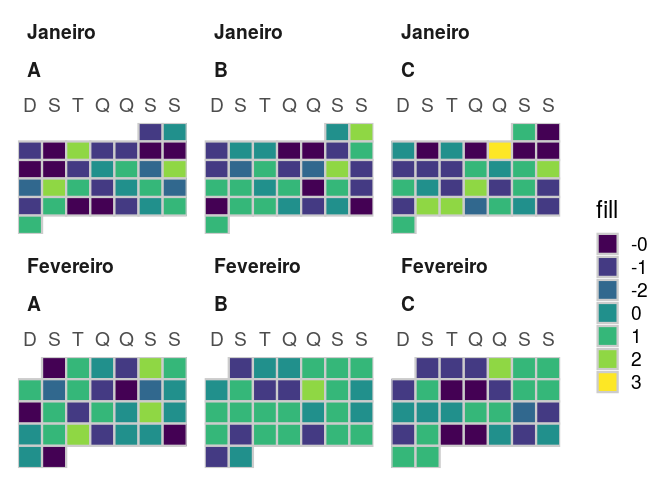
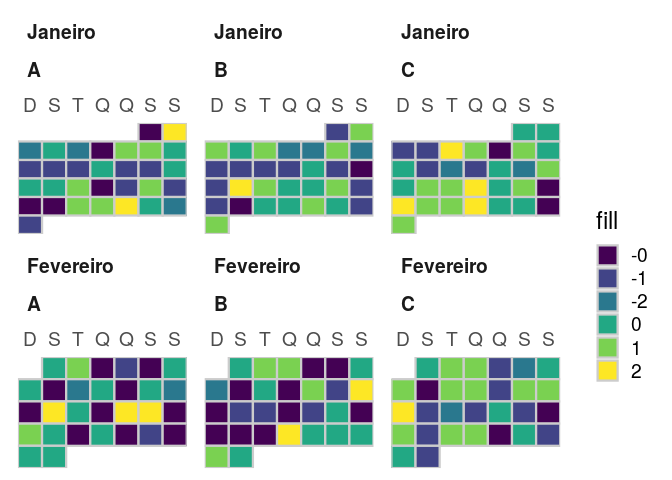
update README

Changed region(s): [[0.0312, 0.7188, 0.8438, 1.0], [0.0312, 0.25, 0.8438, 0.5], [0.875, 0.4062, 0.9688, 0.8438]]

diff --git a/README.md b/README.md
@@ -100,12 +100,12 @@ head(df)
 #> # A tibble: 6 x 9
 #>   grp   date       fill      x month    year monlabel     y wday 
 #>   <chr> <date>     <chr> <dbl> <ord>   <dbl> <fct>    <dbl> <ord>
-#> 1 A     2016-01-01 -1        5 janeiro  2016 Janeiro     10 Sex  
-#> 2 A     2016-01-02 0         6 janeiro  2016 Janeiro     10 Sáb  
-#> 3 A     2016-01-03 -1        0 janeiro  2016 Janeiro      9 Dom  
-#> 4 A     2016-01-04 -0        1 janeiro  2016 Janeiro      9 Seg  
-#> 5 A     2016-01-05 2         2 janeiro  2016 Janeiro      9 Ter  
-#> 6 A     2016-01-06 -1        3 janeiro  2016 Janeiro      9 Qua
+#> 1 A     2016-01-01 -0        5 janeiro  2016 Janeiro     10 Sex  
+#> 2 A     2016-01-02 2         6 janeiro  2016 Janeiro     10 Sáb  
+#> 3 A     2016-01-03 -2        0 janeiro  2016 Janeiro      9 Dom  
+#> 4 A     2016-01-04 0         1 janeiro  2016 Janeiro      9 Seg  
+#> 5 A     2016-01-05 -2        2 janeiro  2016 Janeiro      9 Ter  
+#> 6 A     2016-01-06 -0        3 janeiro  2016 Janeiro      9 Qua
 
 df %>% 
   cal_plot(facet = grp)+
@@ -120,9 +120,9 @@ df %>%
 x <- rexp(20,.5)
 
 x
-#>  [1] 0.2965533 4.1493241 5.2790362 1.1474177 3.4750820 1.3574579 0.9856146
-#>  [8] 0.5098588 2.6640497 2.1257185 0.8331920 0.4210124 0.8497191 3.8975106
-#> [15] 2.9638079 1.0512829 3.6406513 3.7522068 3.0474531 0.7047559
+#>  [1] 3.4418720 3.5828581 2.7889652 2.3361063 2.5952627 1.6272921 0.3933713
+#>  [8] 3.0400792 1.7327033 0.3328295 0.9660080 1.1039143 0.9754496 6.9486297
+#> [15] 1.7783748 2.2776161 2.1052747 0.8671692 1.3413013 5.3987888
 ```
 
 ### Coefficient of Variation (CV)
@@ -130,11 +130,11 @@ x
 ``` r
 #raw
 cv(x, perc = F)
-#> [1] 0.7048534
+#> [1] 0.7219543
 
 #%
 cv(x, perc = T)
-#> [1] 70.48534
+#> [1] 72.19543
 ```
 
 ### Mean’s
@@ -144,21 +144,21 @@ num_mean(x)
 #> # A tibble: 1 x 3
 #>   arithmetic geometric harmonic
 #>        <dbl>     <dbl>    <dbl>
-#> 1       2.16      1.59     1.10
+#> 1       2.28      1.77     1.29
 ```
 
 #### Harmonic mean
 
 ``` r
 harmonic_mean(x)
-#> [1] 1.10461
+#> [1] 1.292049
 ```
 
 #### Geometric mean
 
 ``` r
 geometric_mean(x)
-#> [1] 1.589712
+#> [1] 1.769498
 ```
 
 ### Numeric univariate summary statistics
@@ -168,7 +168,7 @@ num_summary(x)
 #> # A tibble: 1 x 13
 #>       n    na outlier negative equal_zero positive   min   p25   p50   p75   max
 #>   <int> <int>   <int>    <int>      <int>    <int> <dbl> <dbl> <dbl> <dbl> <dbl>
-#> 1    20     0       0        0          0       20 0.297 0.846  1.74  3.52  5.28
+#> 1    20     0       1        0          0       20 0.333  1.07  1.94  2.85  6.95
 #> # … with 2 more variables: mean <dbl>, cv <dbl>
 ```
 
@@ -181,7 +181,7 @@ num_corr(x,y)
 #> # A tibble: 1 x 3
 #>   pearson kendall spearman
 #>     <dbl>   <dbl>    <dbl>
-#> 1  -0.100  -0.105   -0.173
+#> 1  -0.100 -0.0105   0.0165
 ```
 
 ## Others
